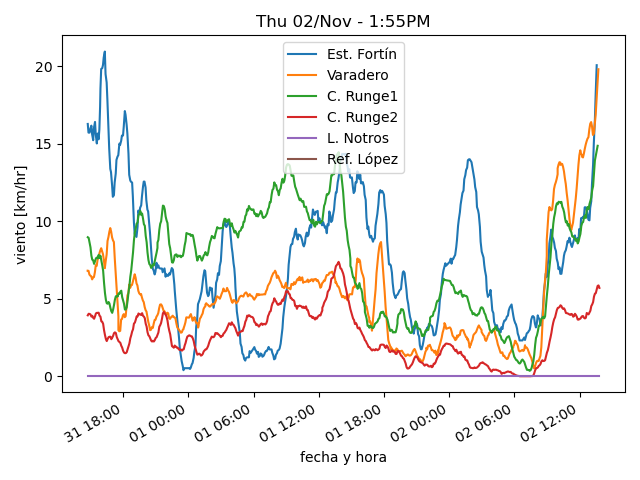
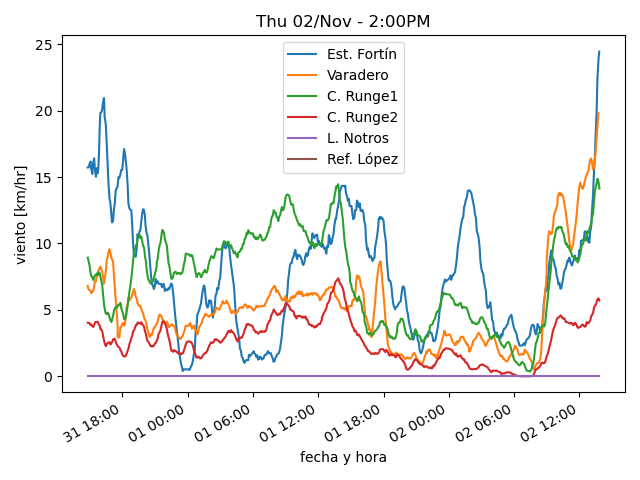
actualiza datos

diff --git a/estaciones/estacion3.html b/estaciones/estacion3.html
@@ -18,32 +18,32 @@
     </tr>
     <tr>
      <td class="stats_data">
-      1:39PM
+      1:49PM
      </td>
     </tr>
     <tr>
      <td class="stats_data">
-      10.0⁰C
+      10.2⁰C
      </td>
     </tr>
     <tr>
      <td class="stats_data">
-      3.4⁰C
+      3.8⁰C
      </td>
     </tr>
     <tr>
      <td class="stats_data">
-      63.8%
+      64.7%
      </td>
     </tr>
     <tr>
      <td class="stats_data">
-      1009.82hPa
+      1009.92hPa
      </td>
     </tr>
     <tr>
      <td class="stats_data">
-      9.2/13.7 km/hr NW
+      5.4/8.5 km/hr WNW
      </td>
     </tr>
     <tr>
@@ -53,12 +53,12 @@
     </tr>
     <tr>
      <td class="stats_data">
-      3.0
+      2.0
      </td>
     </tr>
     <tr>
      <td class="stats_data">
-      276.7 W/m²
+      252.4 W/m²
      </td>
     </tr>
    </tbody>

diff --git a/estaciones/estacion1.html b/estaciones/estacion1.html
@@ -18,22 +18,22 @@
     </tr>
     <tr>
      <td class="stats_data">
-      1:34PM
+      1:48PM
      </td>
     </tr>
     <tr>
      <td class="stats_data">
-      11.8⁰C
+      12.7⁰C
      </td>
     </tr>
     <tr>
      <td class="stats_data">
-      3.0⁰C
+      2.9⁰C
      </td>
     </tr>
     <tr>
      <td class="stats_data">
-      54.7%
+      51.5%
      </td>
     </tr>
     <tr>
@@ -43,7 +43,7 @@
     </tr>
     <tr>
      <td class="stats_data">
-      16.6/25.7 km/hr W
+      22.7/29.8 km/hr NW
      </td>
     </tr>
     <tr>
@@ -53,12 +53,12 @@
     </tr>
     <tr>
      <td class="stats_data">
-      8.0
+      8.1
      </td>
     </tr>
     <tr>
      <td class="stats_data">
-      1266.0 W/m²
+      1255.0 W/m²
      </td>
     </tr>
    </tbody>
